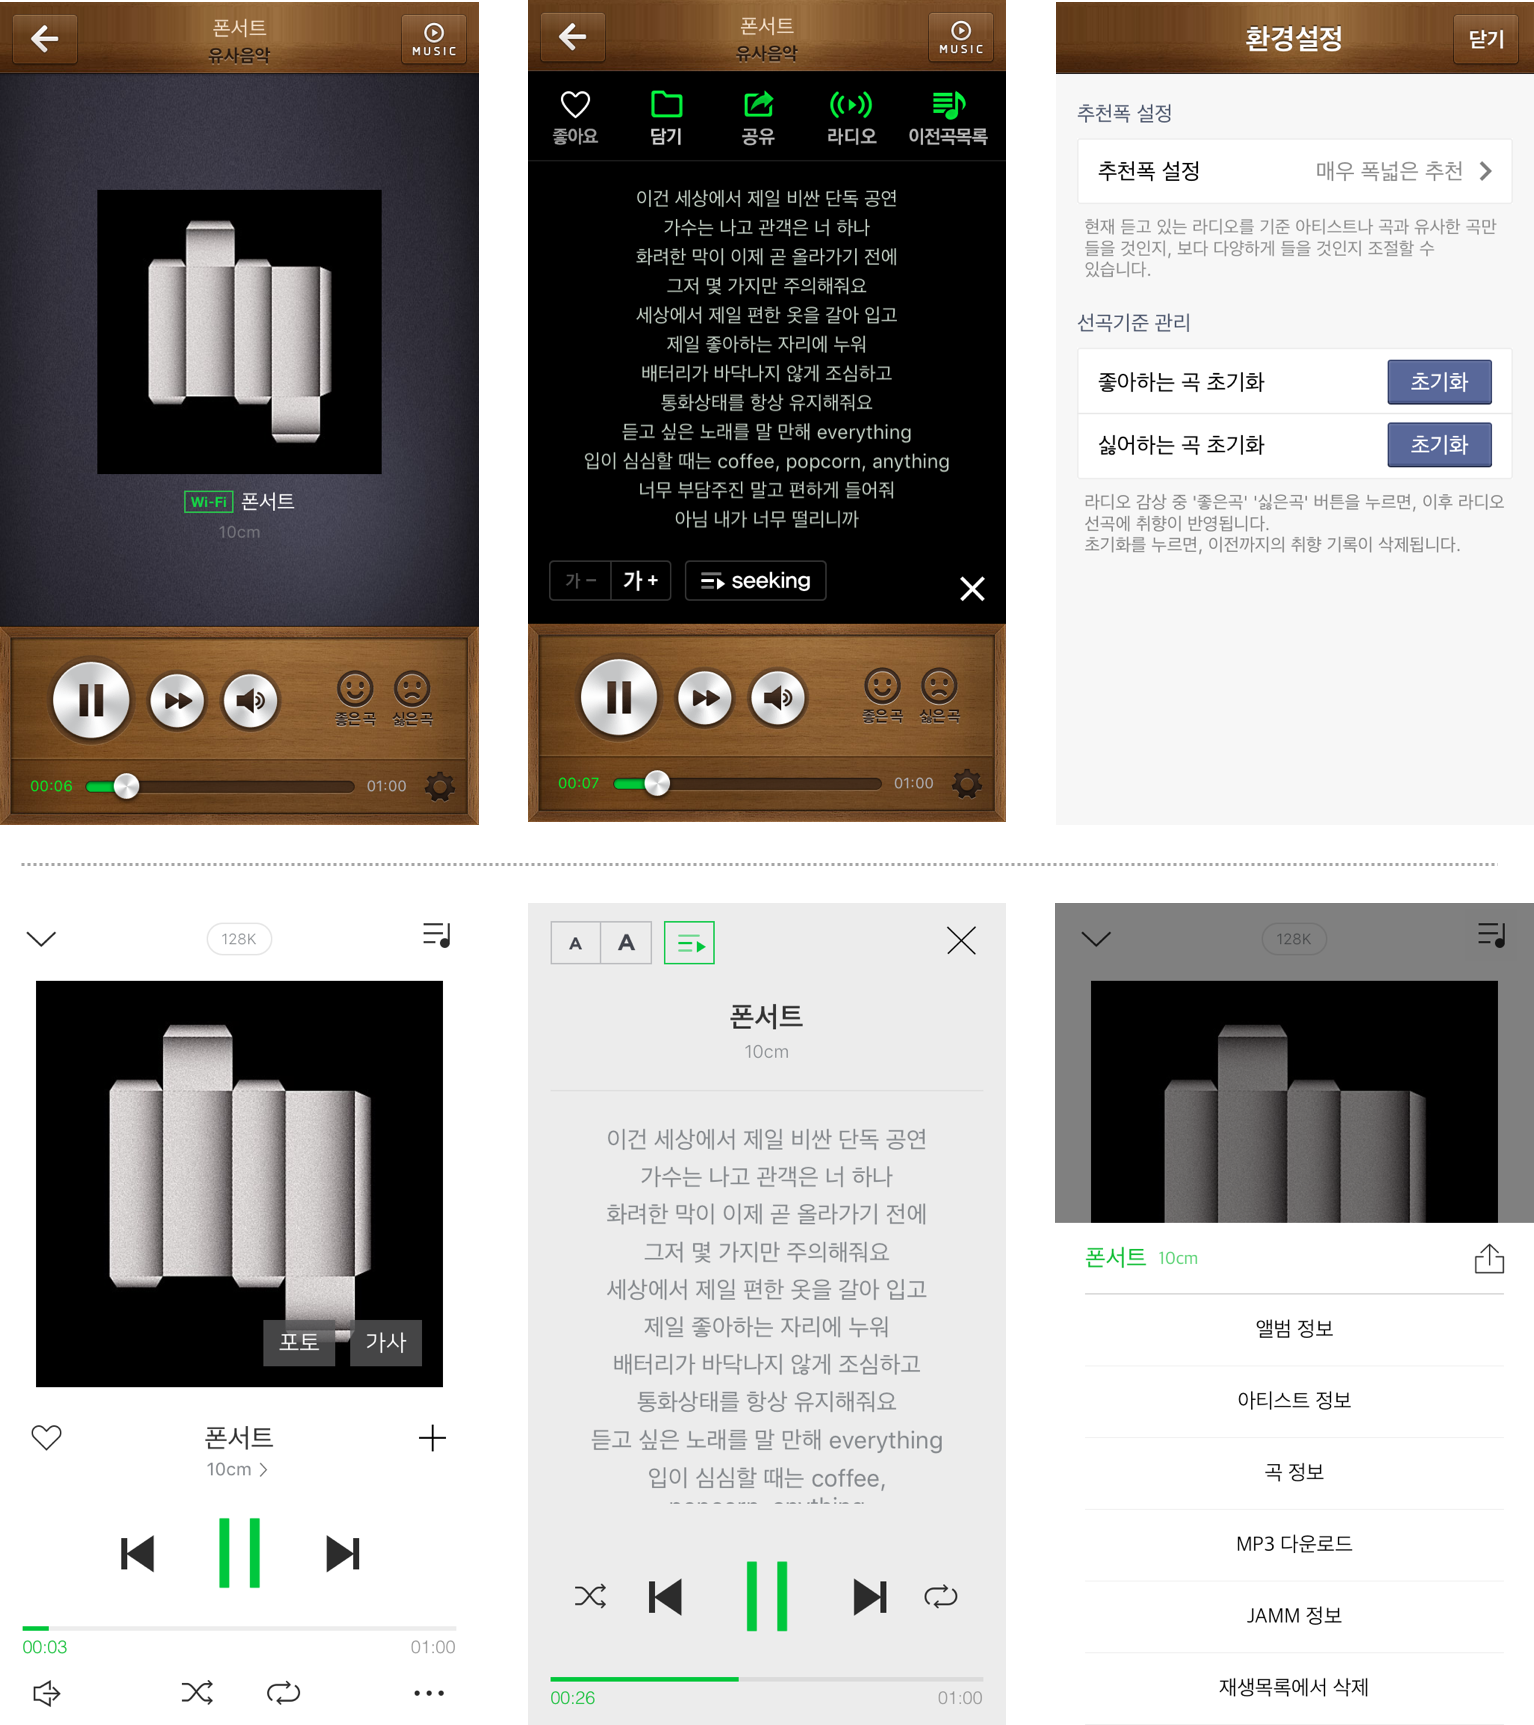
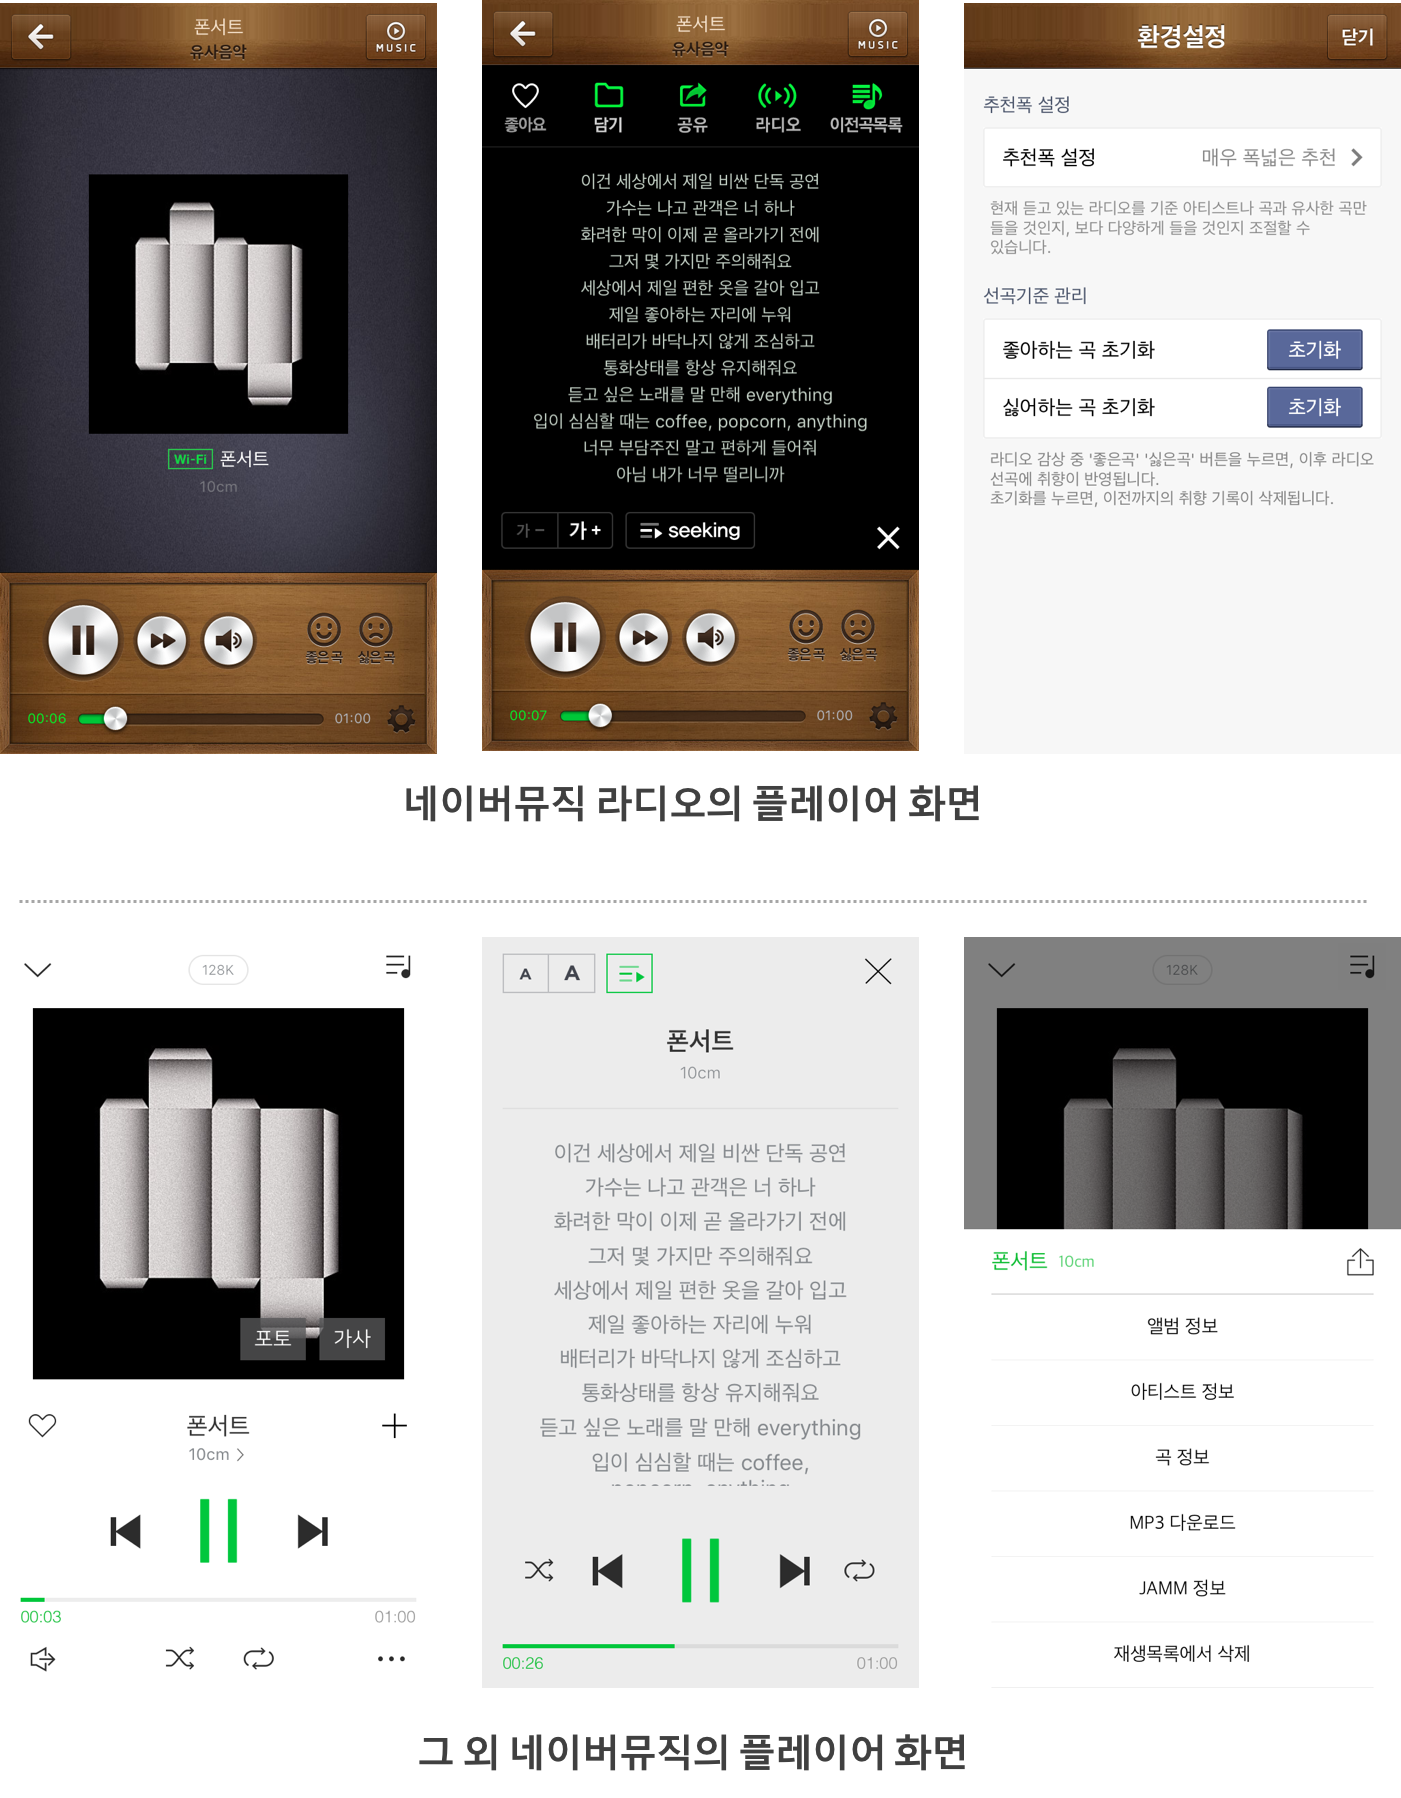
naver

diff --git a/_posts/2017-10-30-191.md b/_posts/2017-10-30-191.md
@@ -67,7 +67,7 @@ IA는 서비스의 뼈대를 파악하기에 용이했지만 사용자가 서비
 의도는 모르겠지만 UI의 차이를 보고 라디오 속 음악재생 경험과 그 외 네이버뮤직에서의 음악재생 경험을 분리시켰을 거라 짐작했다. 라디오 UI가 마치 개편 전 네이버 같다. 화면 디자인만 다른 게 아니고 기능도 라디오가 뒤떨어진다. 예컨대 라디오는 플레이어 화면에서 재생되는 음악의 정보를 알거나 뮤지션 페이지로 이동할 수 없다. 네이버뮤직에선 가능하다.
 
 ![pic](/assets/images/post/002/191_04.png)
-<figcaption class="caption">같은 음악 다른 느낌(위: 네이버뮤직 내 라디오 플레이어 화면, 아래: 그 외 네이버뮤직 플레이어 화면)</figcaption>
+<figcaption class="caption">같은 음악 다른 느낌</figcaption>
 <br>
 
 네이버라디오라는 앱이 따로 있는 게 아니다. 네이버뮤직을 이용하는 고객이 라디오도 이용하는데 사용경험을 왜 굳이 나눠야 하는지 모르겠다. 아직 개편이 덜 되었다고 하기엔 네이버뮤직 대규모 업데이트가 있은 지 벌써 1년이 다 되어간다.
